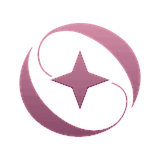
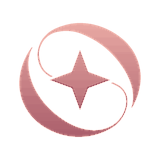
[Fix] 핑크 스피너 색을 장밋빛→산호로 — 시안 셋(원래 색·자두→장밋빛·장밋빛→산호) 중 사용자가 셋째를 골랐다(2026-10-26, '보라색보다는')

diff --git a/frontend/assets/css/style_skovix.css b/frontend/assets/css/style_skovix.css
@@ -721,7 +721,7 @@ html[data-theme="pink"] {
   --skx-holo-mask: none;
 }
 /* 핑크 테마 스피너 — 기본 GIF 는 알파가 1비트(가장자리를 끊는다)이고 색이 아주 옅은 살구색이라 분홍 위에서 거무튀튀한 계단 테두리로
-   보였다(사용자 2026-10-26). 핑크 테마만 자두→장밋빛, 가장자리가 매끈한 WebP·PNG 로 갈아 끼운다(research/spinner-160/make_pink.py).
+   보였다(사용자 2026-10-26). 핑크 테마만 장밋빛→산호, 가장자리가 매끈한 WebP·PNG 로 갈아 끼운다(research/spinner-160/make_pink.py).
    쓰는 곳이 열 군데가 넘고 서버 렌더는 테마를 모르므로 src 를 고르지 않고 CSS content 로 바꾼다 — 수화가 어긋나지 않는다.
    img 의 content 를 모르는 브라우저는 기본 그림을 그대로 보인다 */
 html[data-theme="pink"] img[src$="/skovix-spinner-clean-160.gif"] {

diff --git a/research/spinner-160/make_pink.py b/research/spinner-160/make_pink.py
@@ -5,8 +5,8 @@
   ② 원본 색이 아주 옅은 살구색(평균 #f7d9d2)이라 분홍 바탕과 대비가 없어 흐릿하다.
 그래서 핑크 테마만 따로 만든다.
   - 알파를 그대로 두는 애니메이션 WebP(가장자리가 매끈하다). 축소는 make_160.py 와 같이 알파를 곱한 색으로 한다.
-  - 색은 밝기를 핑크 테마의 자두색(#7a3f5c, --skx-teal-ink) → 장밋빛(#de96af) 그라데이션에 옮긴다 — 음영은 그대로 남는다.
-    살구·산호 쪽은 피했다(핑크 테마에서 웜톤이 튄다는 사용자 지적 2026-10-26).
+  - 색은 밝기를 짙은 장밋빛(#a05262) → 옅은 산호(#f0b2aa) 그라데이션에 옮긴다 — 음영은 그대로 남는다. 시안 셋(원래 색 · 자두→장밋빛 ·
+    장밋빛→산호) 중 사용자가 셋째를 골랐다(2026-10-26, '보라색보다는').
   - 완료 로고(skovix-spinner-front.png)도 같은 색으로 바꾼 PNG.
 
 실행: python make_pink.py <원본 폴더> <출력 폴더>
@@ -20,8 +20,8 @@ import numpy as np
 from PIL import Image
 
 SIZE = 160
-DARK = (122, 63, 92)  # #7a3f5c
-LIGHT = (222, 150, 175)  # #de96af
+DARK = (160, 82, 98)  # #a05262
+LIGHT = (240, 178, 170)  # #f0b2aa
 # 원본 밝기 범위(불투명 픽셀 R 191~254) — 이 구간을 그라데이션 양 끝에 맞춘다
 LUM_LO, LUM_HI = 0.78, 0.99
 
